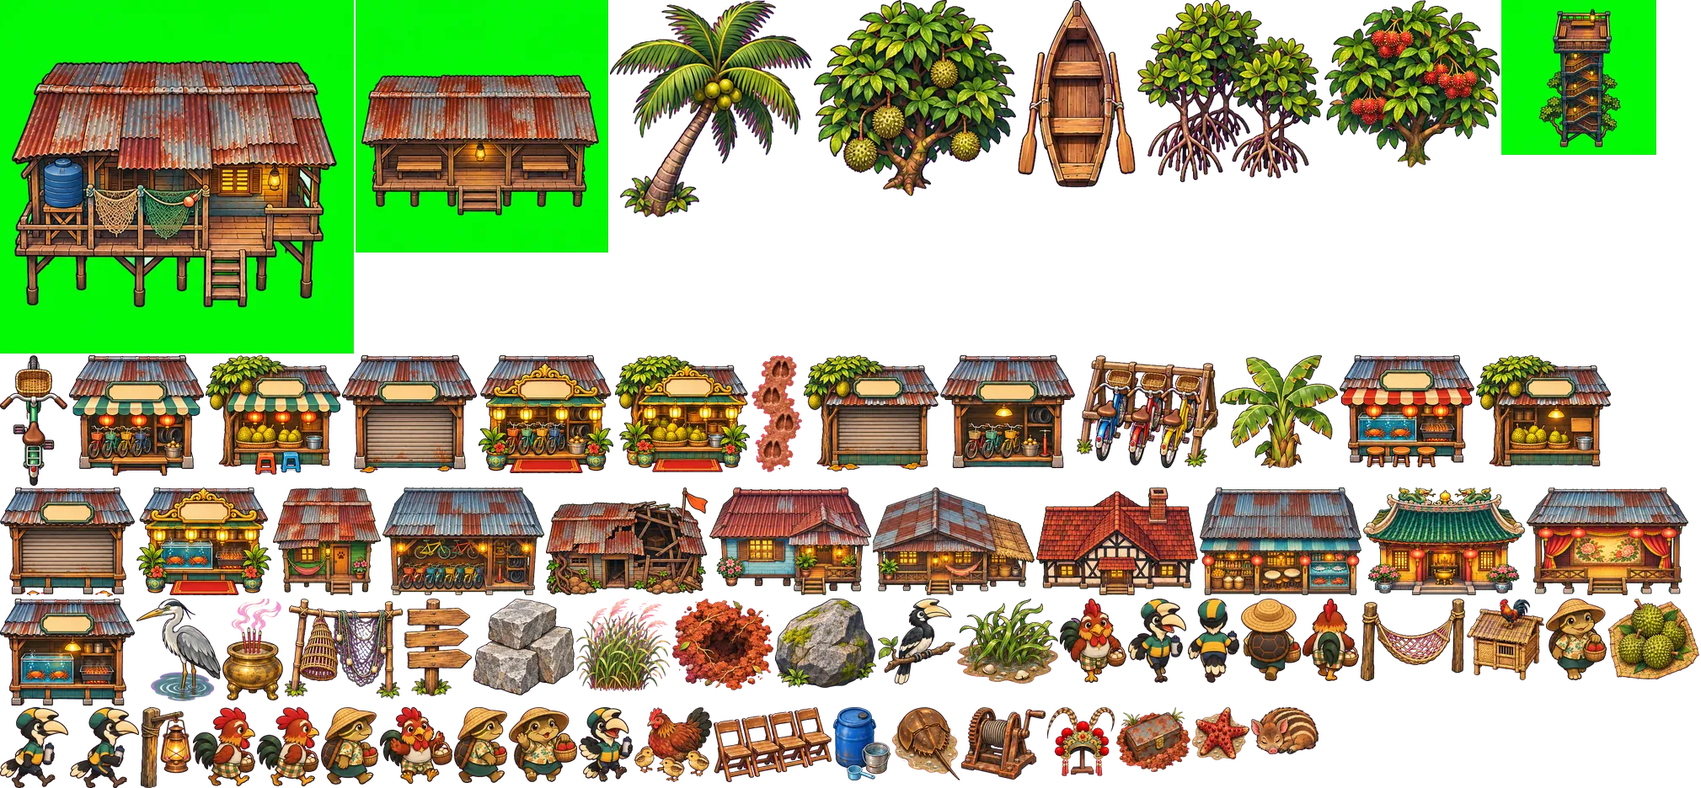
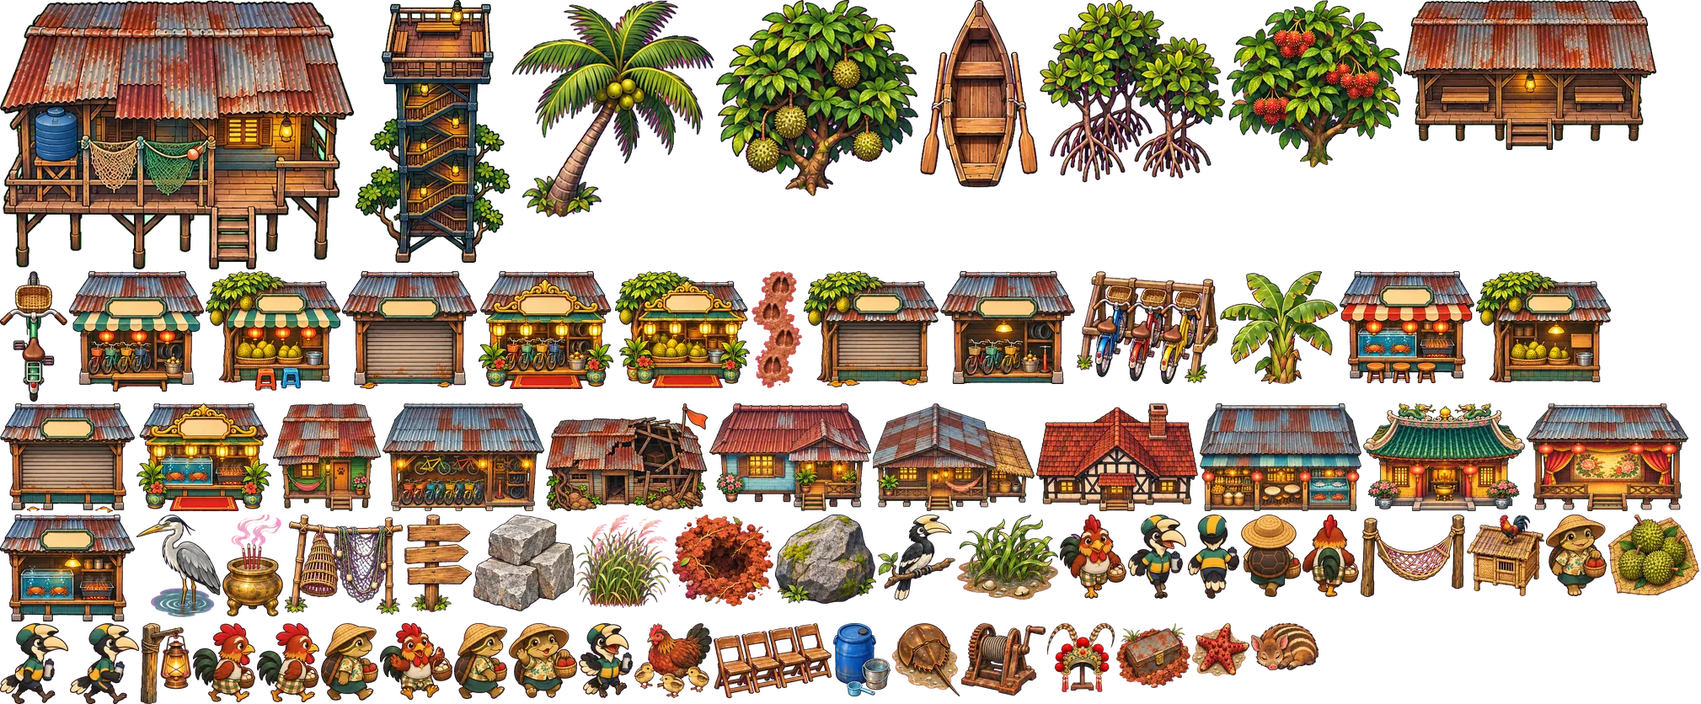
Jade Street: key Ubin's jetty shelter, tower and kelong on green
The ubin-bld2 sheet was painted on green, but each() always keyed magenta,
so these three sprites kept their green backdrop. each() takes green= now;
only the atlas-ubin frames, size and version are updated in jade-art.ts.

diff --git a/lib/jade-art.ts b/lib/jade-art.ts
@@ -1,7 +1,7 @@
 // Generated by scripts/jade-art.py from the Codex paintings; do not edit by hand.
 // FRAMES: name -> [atlas, x, y, w, h] in atlas pixels (2 px per world unit). TEXTURES: seamless 256 px ground tiles.
 export const ATLASES = ['atlas-dora', 'atlas-enzo', 'atlas-dora2', 'atlas-enzo2', 'atlas-south', 'atlas-south2', 'atlas-empire', 'atlas-empire2', 'atlas-city2', 'atlas-far', 'atlas-far2', 'atlas-east', 'atlas-resort', 'atlas-resort2', 'atlas-east2', 'atlas-isle', 'atlas-isle2', 'atlas-land', 'atlas-cast-isle', 'atlas-cast-east', 'atlas-cast-resort', 'atlas-cast-far', 'atlas-cast-south', 'atlas-cast-town', 'atlas-city', 'atlas-rides', 'atlas-gear', 'atlas-jobs', 'atlas-aware', 'atlas-faces-isle', 'atlas-faces-east', 'atlas-faces-resort', 'atlas-faces-far', 'atlas-faces-south', 'atlas-faces-town', 'atlas-set', 'atlas-set2', 'atlas-folk', 'atlas-ui', 'atlas-sg', 'atlas-sg2', 'atlas-mg', 'atlas-props2', 'atlas-props', 'atlas-rides15', 'atlas-act16', 'atlas-cast16-far', 'atlas-cast16-south', 'atlas-stands16', 'atlas-lake16', 'atlas-ubin', 'atlas-boars', 'atlas-cast-ubin', 'atlas-act17', 'atlas-ui17', 'atlas-kallang', 'atlas-cast-kallang', 'atlas-act18', 'atlas-ui18'] as const;
-export const ATLAS_SIZE: Record<string, [number, number]> = {'atlas-ui18': [996, 128], 'atlas-act18': [1508, 120], 'atlas-cast-kallang': [2048, 648], 'atlas-kallang': [2044, 1530], 'atlas-ui17': [978, 128], 'atlas-act17': [1945, 239], 'atlas-cast-ubin': [2028, 774], 'atlas-boars': [2008, 229], 'atlas-ubin': [2019, 936], 'atlas-lake16': [864, 562], 'atlas-stands16': [1944, 333], 'atlas-cast16-south': [1423, 256], 'atlas-cast16-far': [1393, 256], 'atlas-act16': [1402, 113], 'atlas-rides15': [2048, 529], 'atlas-dora': [2048, 558], 'atlas-enzo': [2048, 558], 'atlas-dora2': [2048, 946], 'atlas-enzo2': [2048, 938], 'atlas-south': [2048, 1932], 'atlas-south2': [2048, 840], 'atlas-empire': [2048, 465], 'atlas-empire2': [2048, 1738], 'atlas-city2': [2048, 1928], 'atlas-far': [2048, 2448], 'atlas-far2': [2048, 2434], 'atlas-east': [2048, 1608], 'atlas-resort': [2048, 1092], 'atlas-resort2': [2048, 360], 'atlas-east2': [2048, 768], 'atlas-isle': [2048, 1802], 'atlas-isle2': [2048, 1135], 'atlas-land': [2048, 2308], 'atlas-cast-isle': [2048, 251], 'atlas-cast-east': [2048, 243], 'atlas-cast-resort': [2048, 145], 'atlas-cast-far': [2048, 267], 'atlas-cast-south': [2048, 234], 'atlas-cast-town': [2048, 1001], 'atlas-city': [2048, 4240], 'atlas-rides': [2048, 382], 'atlas-gear': [2048, 568], 'atlas-jobs': [2048, 1256], 'atlas-aware': [2048, 400], 'atlas-faces-isle': [2048, 514], 'atlas-faces-east': [2048, 772], 'atlas-faces-resort': [2048, 256], 'atlas-faces-far': [2048, 772], 'atlas-faces-south': [2048, 514], 'atlas-faces-town': [2048, 2814], 'atlas-set': [2048, 515], 'atlas-set2': [2048, 2406], 'atlas-folk': [2048, 2370], 'atlas-ui': [2048, 1793], 'atlas-sg': [2048, 1280], 'atlas-sg2': [2048, 398], 'atlas-mg': [2048, 1031], 'atlas-props2': [2048, 1474], 'atlas-props': [2048, 2074]};
+export const ATLAS_SIZE: Record<string, [number, number]> = {'atlas-ui18': [996, 128], 'atlas-act18': [1508, 120], 'atlas-cast-kallang': [2048, 648], 'atlas-kallang': [2044, 1530], 'atlas-ui17': [978, 128], 'atlas-act17': [1945, 239], 'atlas-cast-ubin': [2028, 774], 'atlas-boars': [2008, 229], 'atlas-ubin': [2019, 836], 'atlas-lake16': [864, 562], 'atlas-stands16': [1944, 333], 'atlas-cast16-south': [1423, 256], 'atlas-cast16-far': [1393, 256], 'atlas-act16': [1402, 113], 'atlas-rides15': [2048, 529], 'atlas-dora': [2048, 558], 'atlas-enzo': [2048, 558], 'atlas-dora2': [2048, 946], 'atlas-enzo2': [2048, 938], 'atlas-south': [2048, 1932], 'atlas-south2': [2048, 840], 'atlas-empire': [2048, 465], 'atlas-empire2': [2048, 1738], 'atlas-city2': [2048, 1928], 'atlas-far': [2048, 2448], 'atlas-far2': [2048, 2434], 'atlas-east': [2048, 1608], 'atlas-resort': [2048, 1092], 'atlas-resort2': [2048, 360], 'atlas-east2': [2048, 768], 'atlas-isle': [2048, 1802], 'atlas-isle2': [2048, 1135], 'atlas-land': [2048, 2308], 'atlas-cast-isle': [2048, 251], 'atlas-cast-east': [2048, 243], 'atlas-cast-resort': [2048, 145], 'atlas-cast-far': [2048, 267], 'atlas-cast-south': [2048, 234], 'atlas-cast-town': [2048, 1001], 'atlas-city': [2048, 4240], 'atlas-rides': [2048, 382], 'atlas-gear': [2048, 568], 'atlas-jobs': [2048, 1256], 'atlas-aware': [2048, 400], 'atlas-faces-isle': [2048, 514], 'atlas-faces-east': [2048, 772], 'atlas-faces-resort': [2048, 256], 'atlas-faces-far': [2048, 772], 'atlas-faces-south': [2048, 514], 'atlas-faces-town': [2048, 2814], 'atlas-set': [2048, 515], 'atlas-set2': [2048, 2406], 'atlas-folk': [2048, 2370], 'atlas-ui': [2048, 1793], 'atlas-sg': [2048, 1280], 'atlas-sg2': [2048, 398], 'atlas-mg': [2048, 1031], 'atlas-props2': [2048, 1474], 'atlas-props': [2048, 2074]};
 export const FRAMES: Record<string, [number, number, number, number, number]> = {
   'angpao': [43, 784, 2018, 44, 34],
   'atom': [5, 316, 432, 140, 168],
@@ -2328,77 +2328,77 @@ export const FRAMES: Record<string, [number, number, number, number, number]> = 
   'biz-yongsiak-2': [48, 1134, 179, 160, 139],
   'biz-yongsiak-3': [48, 324, 179, 160, 149],
   'lake-bank': [49, 0, 0, 862, 562],
-  'biz-durianstall-0': [50, 954, 422, 160, 138],
-  'biz-durianstall-1': [50, 1752, 422, 160, 132],
-  'biz-durianstall-2': [50, 244, 422, 160, 142],
-  'biz-durianstall-3': [50, 730, 422, 160, 139],
-  'biz-kelongseafood-0': [50, 0, 579, 160, 130],
-  'biz-kelongseafood-1': [50, 0, 711, 160, 127],
-  'biz-kelongseafood-2': [50, 1590, 422, 160, 133],
-  'biz-kelongseafood-3': [50, 162, 579, 160, 128],
-  'biz-ubinbikes-0': [50, 406, 422, 160, 140],
-  'biz-ubinbikes-1': [50, 1116, 422, 160, 134],
-  'biz-ubinbikes-2': [50, 82, 422, 160, 143],
-  'biz-ubinbikes-3': [50, 568, 422, 160, 140],
-  'boulder': [50, 920, 711, 120, 106],
-  'coconut': [50, 724, 0, 240, 258],
-  'coop': [50, 1741, 711, 92, 97],
-  'dig-hole': [50, 798, 711, 120, 109],
-  'drum': [50, 989, 840, 68, 87],
-  'durian-pile': [50, 1909, 711, 108, 96],
-  'durian-tree': [50, 966, 0, 240, 233],
-  'fish-trap': [50, 338, 711, 140, 119],
-  'folk-boxturtle-down': [50, 1835, 711, 72, 97],
-  'folk-boxturtle-hop': [50, 604, 840, 81, 89],
-  'folk-boxturtle-side-0': [50, 381, 840, 68, 92],
-  'folk-boxturtle-side-1': [50, 539, 840, 63, 90],
-  'folk-boxturtle-up': [50, 1473, 711, 71, 98],
-  'folk-fowl-down': [50, 1258, 711, 79, 100],
-  'folk-fowl-hop': [50, 451, 840, 86, 91],
-  'folk-fowl-side-0': [50, 229, 840, 74, 94],
-  'folk-fowl-side-1': [50, 305, 840, 74, 94],
-  'folk-fowl-up': [50, 1546, 711, 67, 98],
-  'folk-hornbill-down': [50, 1339, 711, 69, 100],
-  'folk-hornbill-hop': [50, 687, 840, 64, 89],
-  'folk-hornbill-side-0': [50, 0, 840, 81, 96],
-  'folk-hornbill-side-1': [50, 83, 840, 82, 96],
-  'folk-hornbill-up': [50, 1410, 711, 61, 100],
-  'granite-blocks': [50, 562, 711, 120, 115],
-  'hammock': [50, 1615, 711, 124, 98],
-  'headdress': [50, 1243, 840, 80, 82],
-  'hen-chicks': [50, 753, 840, 92, 89],
-  'heron': [50, 162, 711, 100, 122],
-  'hoof-prints': [50, 892, 422, 60, 139],
-  'hornbill': [50, 1042, 711, 92, 102],
-  'horseshoe-crab': [50, 1059, 840, 80, 87],
-  'incense-urn': [50, 264, 711, 72, 121],
-  'kelong': [50, 0, 0, 420, 420],
-  'kerosene-lamp': [50, 167, 840, 60, 96],
-  'lalang': [50, 684, 711, 112, 111],
-  'mangrove': [50, 1350, 0, 220, 217],
-  'piglet': [50, 1485, 840, 80, 56],
-  'rambutan-tree': [50, 1572, 0, 208, 199],
-  'safe-ubin': [50, 324, 579, 128, 128],
-  'sampan': [50, 1208, 0, 140, 223],
-  'sea-star': [50, 1415, 840, 68, 63],
-  'seagrass': [50, 1136, 711, 120, 101],
-  'signpost': [50, 480, 711, 80, 116],
-  'tin-chest': [50, 1325, 840, 88, 77],
-  'ubin-bike': [50, 0, 422, 80, 155],
-  'ubin-bikes': [50, 454, 579, 192, 128],
-  'ubin-den': [50, 648, 579, 192, 128],
-  'ubin-house-a': [50, 842, 579, 192, 128],
-  'ubin-house-b': [50, 1036, 579, 192, 128],
-  'ubin-house1': [50, 1230, 579, 192, 128],
-  'ubin-jetty': [50, 422, 0, 300, 300],
-  'ubin-rack': [50, 1278, 422, 168, 134],
-  'ubin-shops': [50, 1424, 579, 192, 128],
-  'ubin-temple': [50, 1618, 579, 192, 128],
-  'ubin-tower': [50, 1782, 0, 184, 184],
-  'ubin-wayang': [50, 1812, 579, 192, 128],
-  'wayang-chairs': [50, 847, 840, 140, 89],
-  'wild-banana': [50, 1448, 422, 140, 134],
-  'winch': [50, 1141, 840, 100, 86],
+  'biz-durianstall-0': [50, 954, 322, 160, 138],
+  'biz-durianstall-1': [50, 1752, 322, 160, 132],
+  'biz-durianstall-2': [50, 244, 322, 160, 142],
+  'biz-durianstall-3': [50, 730, 322, 160, 139],
+  'biz-kelongseafood-0': [50, 0, 479, 160, 130],
+  'biz-kelongseafood-1': [50, 0, 611, 160, 127],
+  'biz-kelongseafood-2': [50, 1590, 322, 160, 133],
+  'biz-kelongseafood-3': [50, 162, 479, 160, 128],
+  'biz-ubinbikes-0': [50, 406, 322, 160, 140],
+  'biz-ubinbikes-1': [50, 1116, 322, 160, 134],
+  'biz-ubinbikes-2': [50, 82, 322, 160, 143],
+  'biz-ubinbikes-3': [50, 568, 322, 160, 140],
+  'boulder': [50, 920, 611, 120, 106],
+  'coconut': [50, 608, 0, 240, 258],
+  'coop': [50, 1741, 611, 92, 97],
+  'dig-hole': [50, 798, 611, 120, 109],
+  'drum': [50, 989, 740, 68, 87],
+  'durian-pile': [50, 1909, 611, 108, 96],
+  'durian-tree': [50, 850, 0, 240, 233],
+  'fish-trap': [50, 338, 611, 140, 119],
+  'folk-boxturtle-down': [50, 1835, 611, 72, 97],
+  'folk-boxturtle-hop': [50, 604, 740, 81, 89],
+  'folk-boxturtle-side-0': [50, 381, 740, 68, 92],
+  'folk-boxturtle-side-1': [50, 539, 740, 63, 90],
+  'folk-boxturtle-up': [50, 1473, 611, 71, 98],
+  'folk-fowl-down': [50, 1258, 611, 79, 100],
+  'folk-fowl-hop': [50, 451, 740, 86, 91],
+  'folk-fowl-side-0': [50, 229, 740, 74, 94],
+  'folk-fowl-side-1': [50, 305, 740, 74, 94],
+  'folk-fowl-up': [50, 1546, 611, 67, 98],
+  'folk-hornbill-down': [50, 1339, 611, 69, 100],
+  'folk-hornbill-hop': [50, 687, 740, 64, 89],
+  'folk-hornbill-side-0': [50, 0, 740, 81, 96],
+  'folk-hornbill-side-1': [50, 83, 740, 82, 96],
+  'folk-hornbill-up': [50, 1410, 611, 61, 100],
+  'granite-blocks': [50, 562, 611, 120, 115],
+  'hammock': [50, 1615, 611, 124, 98],
+  'headdress': [50, 1243, 740, 80, 82],
+  'hen-chicks': [50, 753, 740, 92, 89],
+  'heron': [50, 162, 611, 100, 122],
+  'hoof-prints': [50, 892, 322, 60, 139],
+  'hornbill': [50, 1042, 611, 92, 102],
+  'horseshoe-crab': [50, 1059, 740, 80, 87],
+  'incense-urn': [50, 264, 611, 72, 121],
+  'kelong': [50, 0, 0, 420, 320],
+  'kerosene-lamp': [50, 167, 740, 60, 96],
+  'lalang': [50, 684, 611, 112, 111],
+  'mangrove': [50, 1234, 0, 220, 217],
+  'piglet': [50, 1485, 740, 80, 56],
+  'rambutan-tree': [50, 1456, 0, 208, 199],
+  'safe-ubin': [50, 324, 479, 128, 128],
+  'sampan': [50, 1092, 0, 140, 223],
+  'sea-star': [50, 1415, 740, 68, 63],
+  'seagrass': [50, 1136, 611, 120, 101],
+  'signpost': [50, 480, 611, 80, 116],
+  'tin-chest': [50, 1325, 740, 88, 77],
+  'ubin-bike': [50, 0, 322, 80, 155],
+  'ubin-bikes': [50, 454, 479, 192, 128],
+  'ubin-den': [50, 648, 479, 192, 128],
+  'ubin-house-a': [50, 842, 479, 192, 128],
+  'ubin-house-b': [50, 1036, 479, 192, 128],
+  'ubin-house1': [50, 1230, 479, 192, 128],
+  'ubin-jetty': [50, 1666, 0, 300, 178],
+  'ubin-rack': [50, 1278, 322, 168, 134],
+  'ubin-shops': [50, 1424, 479, 192, 128],
+  'ubin-temple': [50, 1618, 479, 192, 128],
+  'ubin-tower': [50, 422, 0, 184, 312],
+  'ubin-wayang': [50, 1812, 479, 192, 128],
+  'wayang-chairs': [50, 847, 740, 140, 89],
+  'wild-banana': [50, 1448, 322, 140, 134],
+  'winch': [50, 1141, 740, 100, 86],
   'boar-caught': [51, 1851, 0, 68, 88],
   'boar-charge-0': [51, 805, 142, 102, 64],
   'boar-charge-1': [51, 707, 142, 96, 67],
@@ -5238,4 +5238,4 @@ export const FILL: Record<string, number> = {
 export const TEXTURES = ['road', 'walk', 'plaza', 'grass', 'canal', 'plank', 'temple', 'sea', 'dock', 'neon', 'path', 'cobble', 'xway', 'hdb', 'rubber', 'granite', 'deck', 'bay', 'india', 'glam', 'sand', 'resort', 'lagoon', 'fort', 'katong', 'orchard', 'tarmac', 'cycle', 'jewel', 'changi', 'tiong', 'quay', 'jurong', 'garden', 'dirt', 'kampong', 'mud', 'forest', 'quarry', 'rock', 'hub', 'prom', 'apron', 'basin'] as const;
 export const PLAIN: Record<string, [number, number]> = {'bg-stall-kallang': [1536, 1024], 'bg-chapter-11': [1536, 1024], 'bg-stall-pulau': [1536, 1024], 'bg-chapter-10': [1536, 1024], 'bg-title': [1536, 1024], 'bg-mg-lock': [1280, 853], 'bg-mg-wire': [1280, 853], 'bg-mg-switch': [1280, 853], 'bg-mg-wok': [1280, 853], 'bg-mg-board': [1280, 853], 'bg-mg-haggle': [1280, 853], 'bg-mg-kopi': [1280, 853], 'bg-mg-safe': [1280, 853], 'bg-map-paper': [1024, 683], 'bg-loading': [1280, 853], 'bg-stall-market': [1280, 853], 'bg-stall-temple': [1280, 853], 'bg-stall-canal': [1280, 853], 'bg-stall-docks': [1280, 853], 'bg-stall-arcade': [1280, 853], 'bg-story-1': [1280, 853], 'bg-story-2': [1280, 853], 'bg-story-3': [1280, 853], 'bg-story-4': [1280, 853], 'bg-chapter-1': [1280, 853], 'bg-chapter-2': [1280, 853], 'bg-chapter-3': [1280, 853], 'bg-chapter-4': [1280, 853], 'bg-chapter-5': [1280, 853], 'bg-end-1': [1280, 853], 'bg-end-2': [1280, 853], 'bg-end-3': [1280, 853], 'bg-gadget-shop': [1280, 853], 'bg-chapter-6': [1280, 853], 'bg-end-4': [1280, 853], 'bg-mrt-ride': [1280, 853], 'bg-stall-heartland': [1280, 853], 'bg-stall-bay': [1280, 853], 'bg-chapter-7': [1280, 853], 'bg-end-5': [1280, 853], 'bg-cable-ride': [1280, 853], 'bg-stall-india': [1280, 853], 'bg-stall-glam': [1280, 853], 'bg-stall-resort': [1280, 853], 'bg-empire': [1280, 853], 'bg-chapter-8': [1280, 853], 'bg-end-6': [1280, 853], 'bg-stall-katong': [1280, 853], 'bg-stall-orchard': [1280, 853], 'bg-stall-changi': [1280, 853], 'bg-chapter-9': [1280, 853], 'bg-end-7': [1280, 853], 'bg-stall-tiong': [1280, 853], 'bg-stall-quay': [1280, 853], 'bg-stall-jurong': [1280, 853]};
 /** a content hash of every file in public/art/jade-street/, sent as ?v= so the art can be cached for a year */
-export const VER: Record<string, string> = {'bg-stall-kallang': '5f185fe36b', 'bg-chapter-11': '12fb44814b', 'tex-basin': 'c9c1f2261e', 'tex-apron': '323078ac62', 'tex-prom': '5611f4129c', 'tex-hub': '7886be57ab', 'atlas-ui18': '43e4150895', 'atlas-act18': '51b4e5b9eb', 'atlas-cast-kallang': '178f7a33a4', 'atlas-kallang': 'fb54dd73ba', 'bg-stall-pulau': 'fb3d104962', 'bg-chapter-10': '8f7697f148', 'tex-rock': 'e14a0fa8a2', 'tex-quarry': 'bf95ef713f', 'tex-forest': '86584e2a5c', 'tex-mud': '05f8765082', 'tex-kampong': 'b8131c6fd2', 'tex-dirt': '12ab24649e', 'atlas-ui17': 'dd53c38d34', 'atlas-act17': 'da2d18204c', 'atlas-cast-ubin': '42901e7b58', 'atlas-boars': 'c1ea6f3cc5', 'atlas-ubin': '489a9a7865', 'atlas-lake16': 'b9863c6890', 'atlas-stands16': '73a81e072c', 'atlas-cast16-south': 'b9dd583554', 'atlas-cast16-far': '066ca3c6b6', 'atlas-act16': '2bb55cf0ae', 'atlas-rides15': 'fe909ed773', 'atlas-aware': '6c05ff527e', 'atlas-cast-east': '6993b3868c', 'atlas-cast-far': 'be68f6fb67', 'atlas-cast-isle': 'd6137093d7', 'atlas-cast-resort': '04a51d1d1f', 'atlas-cast-south': '73c3edc72c', 'atlas-cast-town': 'e3e8483794', 'atlas-city': '9d3e5e0e1e', 'atlas-city2': 'a7705a2a8c', 'atlas-dora': 'b9ec3e274b', 'atlas-dora2': '43fff573e2', 'atlas-east': 'c9c950a198', 'atlas-east2': 'b28ab30119', 'atlas-empire': '356b94eb1d', 'atlas-empire2': 'c5f49739fe', 'atlas-enzo': 'bedcb9aa04', 'atlas-enzo2': '698fbcee4a', 'atlas-faces-east': '993c08866d', 'atlas-faces-far': '0b5b95dbbb', 'atlas-faces-isle': '65004845ea', 'atlas-faces-resort': 'f4133d9046', 'atlas-faces-south': '6fcdc446e1', 'atlas-faces-town': '93652e9860', 'atlas-far': '83c801daa9', 'atlas-far2': 'cd584caccd', 'atlas-folk': 'b236b797c5', 'atlas-gear': 'e7536b9f8c', 'atlas-isle': '4fecc0ca2d', 'atlas-isle2': 'b4715aee8a', 'atlas-jobs': 'c3b00cb13a', 'atlas-land': 'e7dd7e81b0', 'atlas-mg': '64874661f8', 'atlas-props': '512513e99b', 'atlas-props2': 'e91c1da3d2', 'atlas-resort': '8bee077388', 'atlas-resort2': 'cadf754c98', 'atlas-rides': 'd0cce2048a', 'atlas-set': 'a3616aef03', 'atlas-set2': 'bdfe1854db', 'atlas-sg': '11d257b248', 'atlas-sg2': 'b7bd370468', 'atlas-south': 'dc4ba8a7e4', 'atlas-south2': '4964999b2d', 'atlas-ui': '39055c0ebe', 'bg-cable-ride': '0018d7f206', 'bg-chapter-1': '39e95b70e2', 'bg-chapter-2': 'c6eae4e23b', 'bg-chapter-3': 'e473dea1ed', 'bg-chapter-4': '2d8f49eb39', 'bg-chapter-5': '46e0c818bf', 'bg-chapter-6': '1cadb76848', 'bg-chapter-7': '151661fa10', 'bg-chapter-8': '8de0d54485', 'bg-chapter-9': 'fedfc885e5', 'bg-empire': '9059bb5b25', 'bg-end-1': '41d3829fd8', 'bg-end-2': '7a6979ac8b', 'bg-end-3': '0f098b8291', 'bg-end-4': '6e947828ba', 'bg-end-5': 'f23fd9f478', 'bg-end-6': 'f2e14dcedb', 'bg-end-7': '9811890a23', 'bg-gadget-shop': '9e43ee5ca2', 'bg-loading': '74ca740d3f', 'bg-map-paper': '196bbb2f61', 'bg-mg-board': '58c9ac51f6', 'bg-mg-haggle': '0be12eb299', 'bg-mg-kopi': '2d37fe15be', 'bg-mg-lock': '54f79c464e', 'bg-mg-safe': 'd992489153', 'bg-mg-switch': 'dfb6f981ad', 'bg-mg-wire': '2fb8c43ff3', 'bg-mg-wok': '5ec96291c1', 'bg-mrt-ride': '2c3fcf70b2', 'bg-stall-arcade': '4069370f26', 'bg-stall-bay': 'ead1c42631', 'bg-stall-canal': '9fa618250b', 'bg-stall-changi': 'f23566cda1', 'bg-stall-docks': 'd2757a418e', 'bg-stall-glam': '0318c8fa67', 'bg-stall-heartland': '8e2d25dae4', 'bg-stall-india': '85a7343c38', 'bg-stall-jurong': '610c6341bd', 'bg-stall-katong': '3458759355', 'bg-stall-market': '2ee08500da', 'bg-stall-orchard': 'e36c5aefb2', 'bg-stall-quay': 'c920af8561', 'bg-stall-resort': '2be8064c28', 'bg-stall-temple': '8d770b42ad', 'bg-stall-tiong': '7dc0dd1982', 'bg-story-1': '495a2313c5', 'bg-story-2': '38dc31aa0a', 'bg-story-3': 'f0d40a8b40', 'bg-story-4': '9e776c0031', 'bg-title': 'f7074c001b', 'tex-bay': '2b2ead15a6', 'tex-canal': '984c616bc3', 'tex-changi': 'd0d210aa4d', 'tex-cobble': 'ffa35bac89', 'tex-cycle': '4e8d4943bd', 'tex-deck': 'feaa49ab7e', 'tex-dock': '56cedf773c', 'tex-fort': '6cfe70f213', 'tex-garden': '8de5353f74', 'tex-glam': '12aa23af36', 'tex-granite': 'b5d611ddf5', 'tex-grass': '2b40c03b43', 'tex-hdb': 'cfe16c39ff', 'tex-india': '322ec75d2a', 'tex-jewel': 'f413902539', 'tex-jurong': 'dce899eb4a', 'tex-katong': '5ca9995443', 'tex-lagoon': '7194978be9', 'tex-neon': '7cefd7035d', 'tex-orchard': '71c2f97876', 'tex-path': '7185e5fd49', 'tex-plank': '39a9bfb3c3', 'tex-plaza': 'd818f31ee6', 'tex-quay': '7b61a601e8', 'tex-resort': '9323ea7a70', 'tex-road': 'df2a879824', 'tex-rubber': 'af7f675c91', 'tex-sand': 'f2b51bd2fa', 'tex-sea': '33c4a10f2d', 'tex-tarmac': 'e44e0bef07', 'tex-temple': '2d4d31a220', 'tex-tiong': '53a74b805f', 'tex-walk': '7059e943c6', 'tex-xway': 'b394d5c6d0', 'ui-btn-jade': '0575db29d5', 'ui-btn-red': 'b38696fe12', 'ui-lantern-off': 'aa12a882a8', 'ui-lantern-on': 'ae946067fe', 'ui-map-frame': 'ebc4710313', 'ui-plaque-jade': 'e6217f6c1b', 'ui-plaque-red': 'a8a020c2b2', 'ui-ring': 'f0ab8b644c'};
+export const VER: Record<string, string> = {'bg-stall-kallang': '5f185fe36b', 'bg-chapter-11': '12fb44814b', 'tex-basin': 'c9c1f2261e', 'tex-apron': '323078ac62', 'tex-prom': '5611f4129c', 'tex-hub': '7886be57ab', 'atlas-ui18': '43e4150895', 'atlas-act18': '51b4e5b9eb', 'atlas-cast-kallang': '178f7a33a4', 'atlas-kallang': 'fb54dd73ba', 'bg-stall-pulau': 'fb3d104962', 'bg-chapter-10': '8f7697f148', 'tex-rock': 'e14a0fa8a2', 'tex-quarry': 'bf95ef713f', 'tex-forest': '86584e2a5c', 'tex-mud': '05f8765082', 'tex-kampong': 'b8131c6fd2', 'tex-dirt': '12ab24649e', 'atlas-ui17': 'dd53c38d34', 'atlas-act17': 'da2d18204c', 'atlas-cast-ubin': '42901e7b58', 'atlas-boars': 'c1ea6f3cc5', 'atlas-ubin': 'ac9516d9b3', 'atlas-lake16': 'b9863c6890', 'atlas-stands16': '73a81e072c', 'atlas-cast16-south': 'b9dd583554', 'atlas-cast16-far': '066ca3c6b6', 'atlas-act16': '2bb55cf0ae', 'atlas-rides15': 'fe909ed773', 'atlas-aware': '6c05ff527e', 'atlas-cast-east': '6993b3868c', 'atlas-cast-far': 'be68f6fb67', 'atlas-cast-isle': 'd6137093d7', 'atlas-cast-resort': '04a51d1d1f', 'atlas-cast-south': '73c3edc72c', 'atlas-cast-town': 'e3e8483794', 'atlas-city': '9d3e5e0e1e', 'atlas-city2': 'a7705a2a8c', 'atlas-dora': 'b9ec3e274b', 'atlas-dora2': '43fff573e2', 'atlas-east': 'c9c950a198', 'atlas-east2': 'b28ab30119', 'atlas-empire': '356b94eb1d', 'atlas-empire2': 'c5f49739fe', 'atlas-enzo': 'bedcb9aa04', 'atlas-enzo2': '698fbcee4a', 'atlas-faces-east': '993c08866d', 'atlas-faces-far': '0b5b95dbbb', 'atlas-faces-isle': '65004845ea', 'atlas-faces-resort': 'f4133d9046', 'atlas-faces-south': '6fcdc446e1', 'atlas-faces-town': '93652e9860', 'atlas-far': '83c801daa9', 'atlas-far2': 'cd584caccd', 'atlas-folk': 'b236b797c5', 'atlas-gear': 'e7536b9f8c', 'atlas-isle': '4fecc0ca2d', 'atlas-isle2': 'b4715aee8a', 'atlas-jobs': 'c3b00cb13a', 'atlas-land': 'e7dd7e81b0', 'atlas-mg': '64874661f8', 'atlas-props': '512513e99b', 'atlas-props2': 'e91c1da3d2', 'atlas-resort': '8bee077388', 'atlas-resort2': 'cadf754c98', 'atlas-rides': 'd0cce2048a', 'atlas-set': 'a3616aef03', 'atlas-set2': 'bdfe1854db', 'atlas-sg': '11d257b248', 'atlas-sg2': 'b7bd370468', 'atlas-south': 'dc4ba8a7e4', 'atlas-south2': '4964999b2d', 'atlas-ui': '39055c0ebe', 'bg-cable-ride': '0018d7f206', 'bg-chapter-1': '39e95b70e2', 'bg-chapter-2': 'c6eae4e23b', 'bg-chapter-3': 'e473dea1ed', 'bg-chapter-4': '2d8f49eb39', 'bg-chapter-5': '46e0c818bf', 'bg-chapter-6': '1cadb76848', 'bg-chapter-7': '151661fa10', 'bg-chapter-8': '8de0d54485', 'bg-chapter-9': 'fedfc885e5', 'bg-empire': '9059bb5b25', 'bg-end-1': '41d3829fd8', 'bg-end-2': '7a6979ac8b', 'bg-end-3': '0f098b8291', 'bg-end-4': '6e947828ba', 'bg-end-5': 'f23fd9f478', 'bg-end-6': 'f2e14dcedb', 'bg-end-7': '9811890a23', 'bg-gadget-shop': '9e43ee5ca2', 'bg-loading': '74ca740d3f', 'bg-map-paper': '196bbb2f61', 'bg-mg-board': '58c9ac51f6', 'bg-mg-haggle': '0be12eb299', 'bg-mg-kopi': '2d37fe15be', 'bg-mg-lock': '54f79c464e', 'bg-mg-safe': 'd992489153', 'bg-mg-switch': 'dfb6f981ad', 'bg-mg-wire': '2fb8c43ff3', 'bg-mg-wok': '5ec96291c1', 'bg-mrt-ride': '2c3fcf70b2', 'bg-stall-arcade': '4069370f26', 'bg-stall-bay': 'ead1c42631', 'bg-stall-canal': '9fa618250b', 'bg-stall-changi': 'f23566cda1', 'bg-stall-docks': 'd2757a418e', 'bg-stall-glam': '0318c8fa67', 'bg-stall-heartland': '8e2d25dae4', 'bg-stall-india': '85a7343c38', 'bg-stall-jurong': '610c6341bd', 'bg-stall-katong': '3458759355', 'bg-stall-market': '2ee08500da', 'bg-stall-orchard': 'e36c5aefb2', 'bg-stall-quay': 'c920af8561', 'bg-stall-resort': '2be8064c28', 'bg-stall-temple': '8d770b42ad', 'bg-stall-tiong': '7dc0dd1982', 'bg-story-1': '495a2313c5', 'bg-story-2': '38dc31aa0a', 'bg-story-3': 'f0d40a8b40', 'bg-story-4': '9e776c0031', 'bg-title': 'f7074c001b', 'tex-bay': '2b2ead15a6', 'tex-canal': '984c616bc3', 'tex-changi': 'd0d210aa4d', 'tex-cobble': 'ffa35bac89', 'tex-cycle': '4e8d4943bd', 'tex-deck': 'feaa49ab7e', 'tex-dock': '56cedf773c', 'tex-fort': '6cfe70f213', 'tex-garden': '8de5353f74', 'tex-glam': '12aa23af36', 'tex-granite': 'b5d611ddf5', 'tex-grass': '2b40c03b43', 'tex-hdb': 'cfe16c39ff', 'tex-india': '322ec75d2a', 'tex-jewel': 'f413902539', 'tex-jurong': 'dce899eb4a', 'tex-katong': '5ca9995443', 'tex-lagoon': '7194978be9', 'tex-neon': '7cefd7035d', 'tex-orchard': '71c2f97876', 'tex-path': '7185e5fd49', 'tex-plank': '39a9bfb3c3', 'tex-plaza': 'd818f31ee6', 'tex-quay': '7b61a601e8', 'tex-resort': '9323ea7a70', 'tex-road': 'df2a879824', 'tex-rubber': 'af7f675c91', 'tex-sand': 'f2b51bd2fa', 'tex-sea': '33c4a10f2d', 'tex-tarmac': 'e44e0bef07', 'tex-temple': '2d4d31a220', 'tex-tiong': '53a74b805f', 'tex-walk': '7059e943c6', 'tex-xway': 'b394d5c6d0', 'ui-btn-jade': '0575db29d5', 'ui-btn-red': 'b38696fe12', 'ui-lantern-off': 'aa12a882a8', 'ui-lantern-on': 'ae946067fe', 'ui-map-frame': 'ebc4710313', 'ui-plaque-jade': 'e6217f6c1b', 'ui-plaque-red': 'a8a020c2b2', 'ui-ring': 'f0ab8b644c'};

diff --git a/scripts/jade-art17.py b/scripts/jade-art17.py
@@ -54,9 +54,9 @@ def grid(atlas, file, names, gx, gy, world, ref=None, fix=None, keep=0.04):
     for n in names:
         if n: put(atlas, n, scaled(cs[n], k))
 
-def each(atlas, file, names, gx, gy, sizes, keep=0.04):
+def each(atlas, file, names, gx, gy, sizes, keep=0.04, green=False):
     """each item scaled to its own world width"""
-    for n, c in zip(names, cells(file, gx, gy, keep=keep)):
+    for n, c in zip(names, cells(file, gx, gy, keep=keep, green=green)):
         if n: put(atlas, n, scaled(c, sizes[n] * PX / c.shape[1]))
 
 def rect(atlas, file, names, gx, gy, sizes):
@@ -69,7 +69,7 @@ rect('atlas-ubin', 'ubin-bld', ['ubin-house-a', 'ubin-house-b', 'ubin-shops', 'u
      {'ubin-house-a': (3, 2), 'ubin-house-b': (3, 2), 'ubin-shops': (3, 2), 'ubin-bikes': (3, 2), 'ubin-temple': (3, 2), 'ubin-wayang': (3, 2)})
 rect('atlas-ubin', 'ubin-bld2', [None, 'ubin-house1', None, 'safe-ubin', 'ubin-den', None], 3, 2,
      {'ubin-house1': (3, 2), 'safe-ubin': (2, 2), 'ubin-den': (3, 2)})
-each('atlas-ubin', 'ubin-bld2', ['ubin-tower', None, 'ubin-jetty', None, None, 'kelong'], 3, 2, {'ubin-tower': 92, 'ubin-jetty': 150, 'kelong': 210})
+each('atlas-ubin', 'ubin-bld2', ['ubin-tower', None, 'ubin-jetty', None, None, 'kelong'], 3, 2, {'ubin-tower': 92, 'ubin-jetty': 150, 'kelong': 210}, green=True)
 # ── props (world widths as lib/jade-ubin.ts draws them)
 each('atlas-ubin', 'props17a', ['durian-tree', 'rambutan-tree', 'coconut', 'mangrove', 'ubin-bike', 'ubin-rack', 'drum', 'coop',
      'sampan', 'fish-trap', 'boulder', 'signpost', 'dig-hole', 'hoof-prints', 'durian-pile', 'tin-chest'], 4, 4,

diff --git a/CHANGELOG.md b/CHANGELOG.md
@@ -20,6 +20,7 @@ Notable changes to Dora & Enzo's Arcade, newest first. Every push to `main` depl
 
 ### Fixed
 
+- **Jade Street**: the shelter at Pulau Ubin's jetty, Jejawi Tower and the kelong no longer sit on a bright green square.
 - **Jade Street**: the game uses less memory as you travel. Repainting the minimap counted as using every district's paintings, so none of them were let go until the whole map had loaded.
 - **Jade Street**: on the sneak-in jobs to the Rain Vortex and the pagoda, the objective named the yard office from an older job. It now names where you are going, and on the way out tells you to follow the gold line.
 - **Jade Street**: Dora has both ears again in the MRT ride painting.
